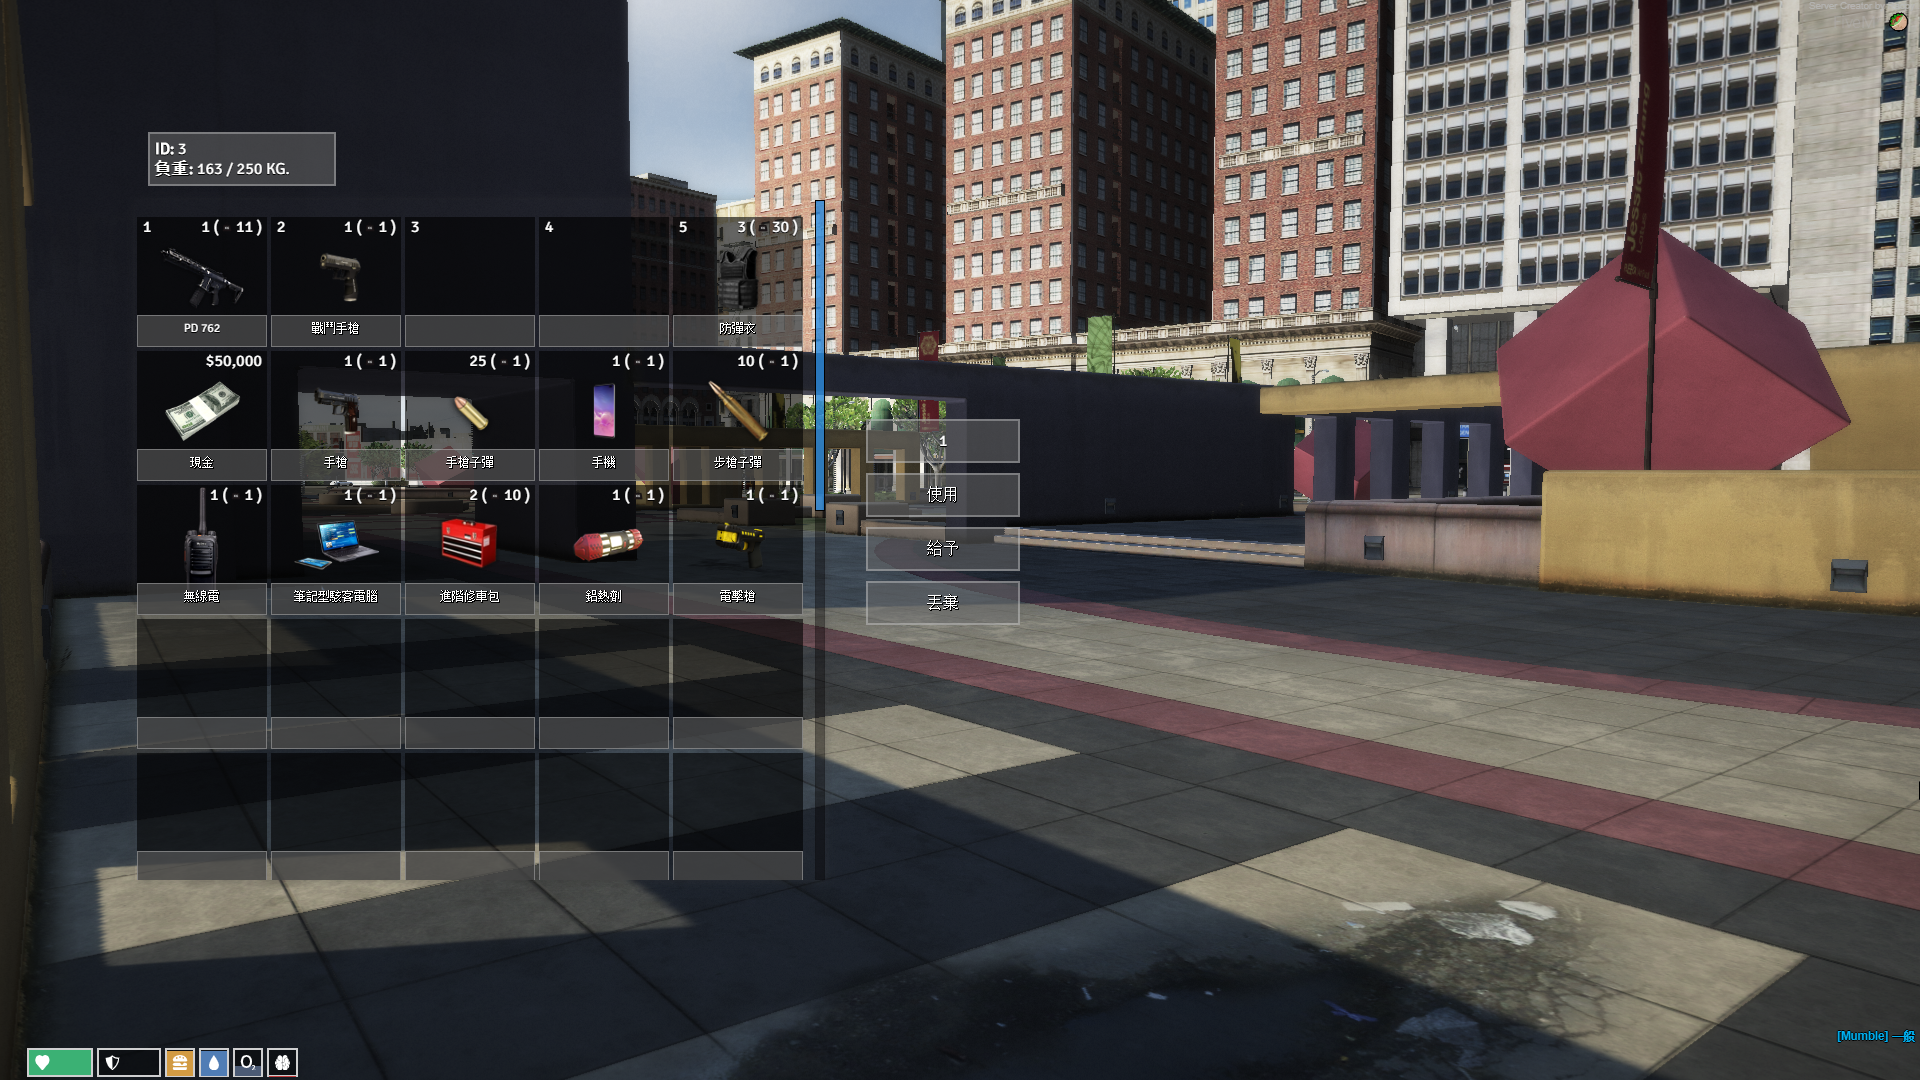
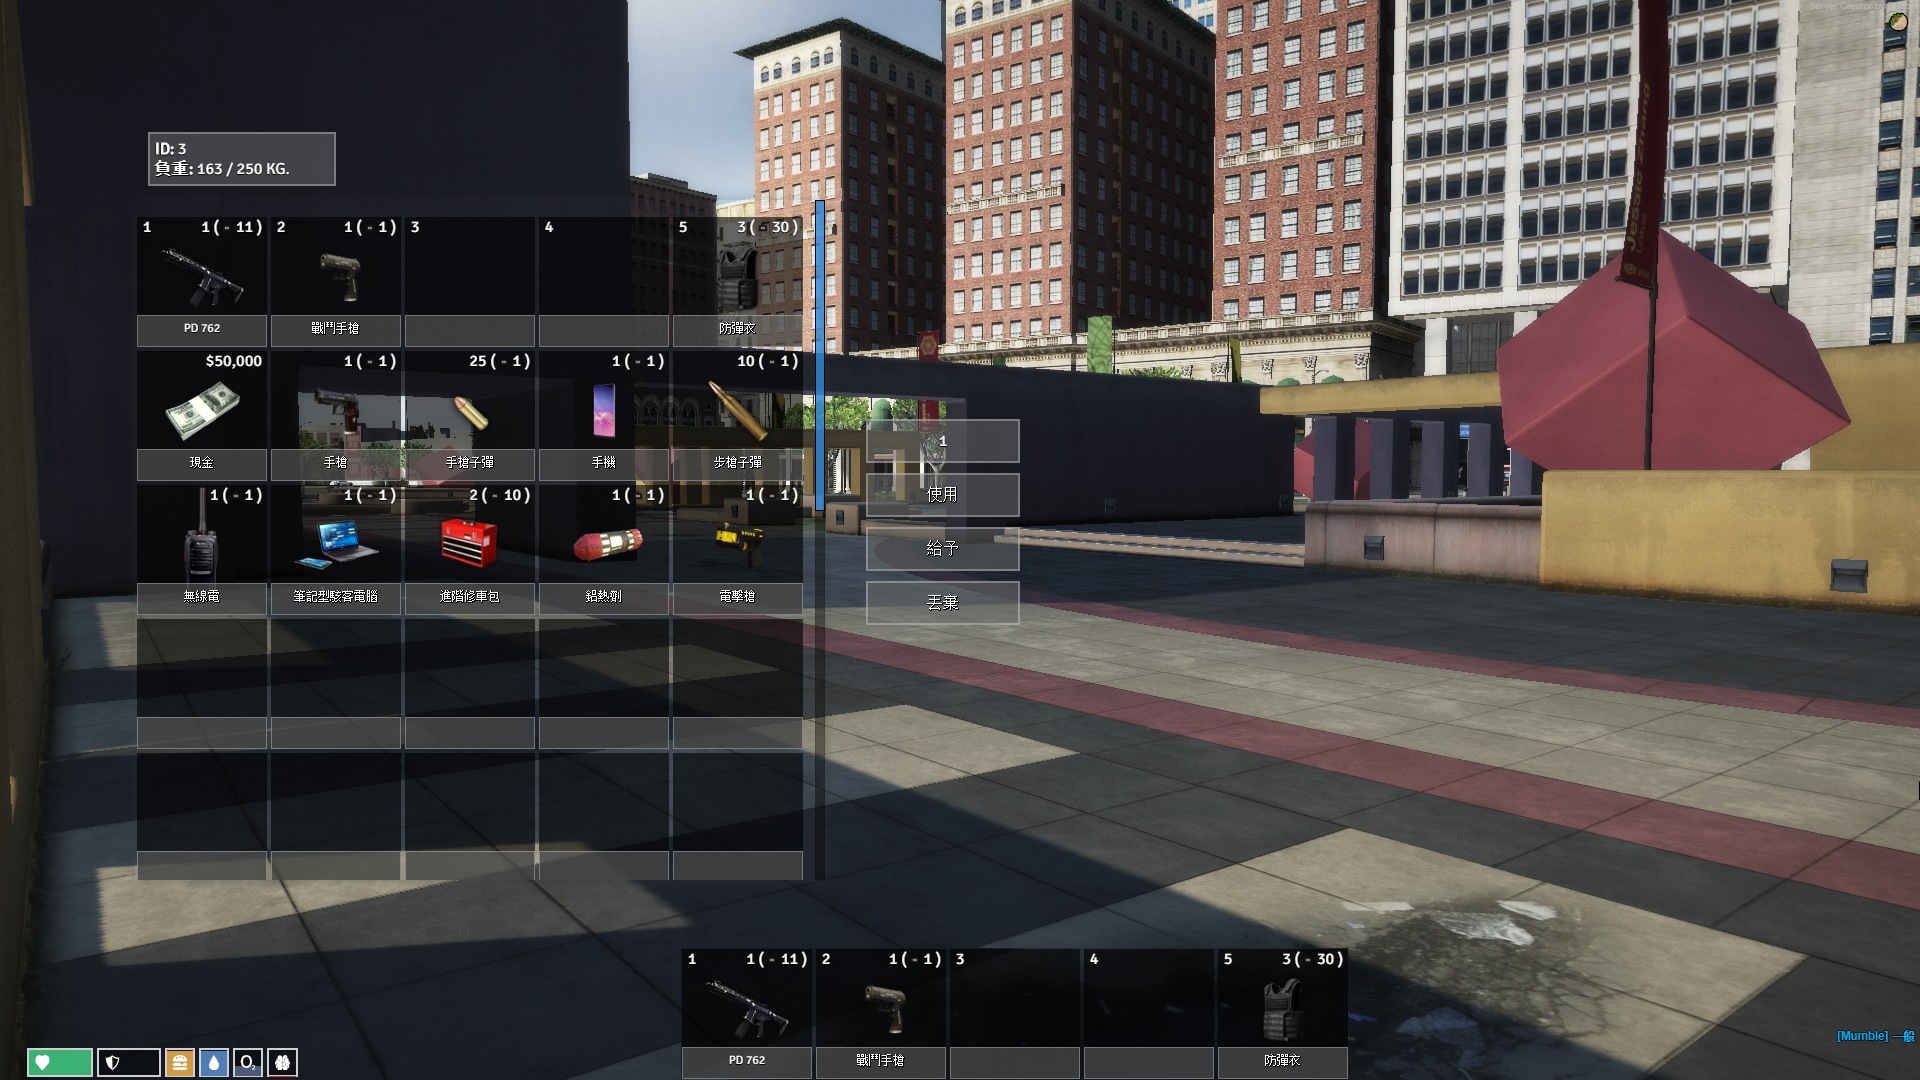
minor change

Changed region(s): [[0.3438, 0.8556, 0.7188, 1.0]]

diff --git a/index.html b/index.html
@@ -42,6 +42,12 @@
             <iframe width="1440" height="810" src="https://www.youtube.com/embed/WsLb6EHHc_g" frameborder="0" allow="accelerometer; autoplay; clipboard-write; encrypted-media; gyroscope; picture-in-picture" allowfullscreen></iframe>
         </div>
     </div>
+    <p class="special">新的背包介面、快捷鍵功能，按下 [TAB] 可顯示快捷物品</p>
+    <div class="wrap">
+        <div class="item">
+            <img src="screenshot/2.0/new inventory.png" alt="">
+        </div>
+    </div>
     <p class="special">新的角色狀態UI</p>
     <div class="wrap">
         <div class="item">
@@ -179,6 +185,7 @@
         </div>
     </div>
     <p class="special">30. 優化客戶端性能 , 與v1.82相比增幅將近15FPS左右 ( 依據電腦配備 )</p>
+    <p class="special">31. 新增自行車租賃判定，防止租用載具後遺失載具不能再次租賃</p>
 </body>
 
 
